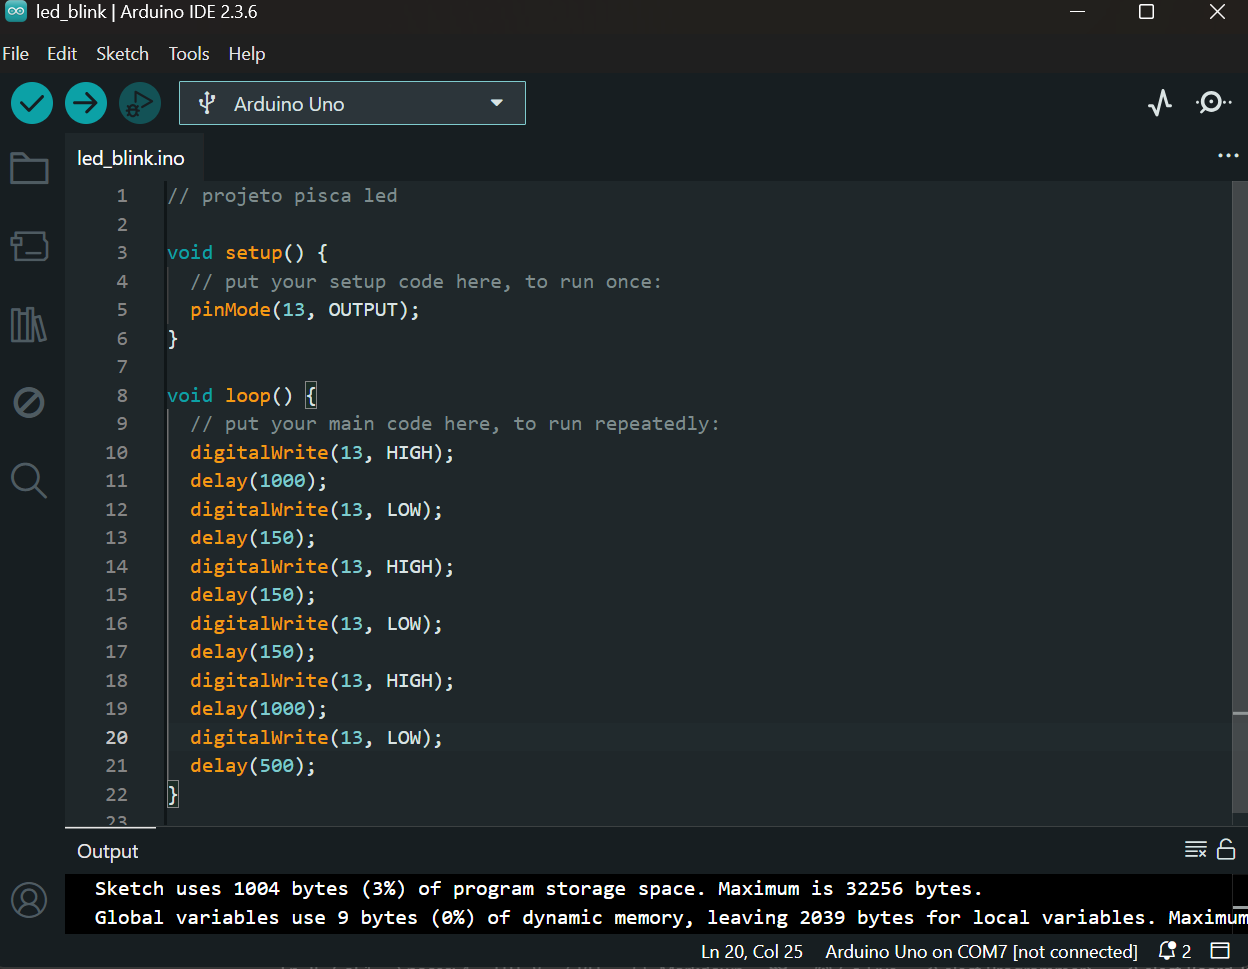
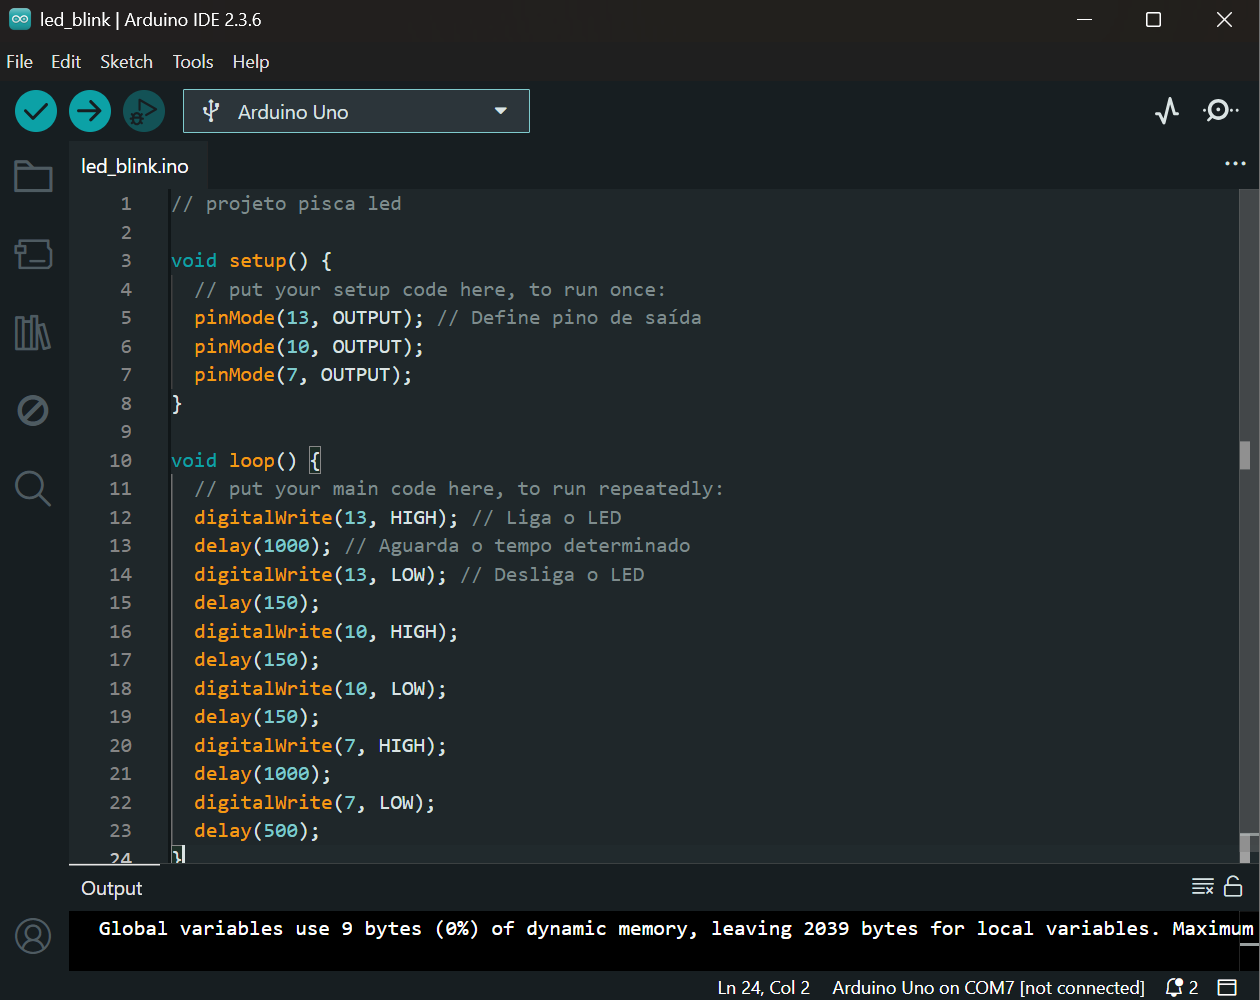
feat: update code

diff --git a/blink_led/README.md b/blink_led/README.md
@@ -6,8 +6,8 @@ Repositório criado para as atividades práticas de **pisca-pisca (Blink)** com 
 
 ## 🔹 Parte 1: Blink LED Interno
 
-Nesta parte, foi realizado o clássico **Blink** utilizando o **LED interno do Arduino (pino 13)**.  
-O programa faz o LED acender por um tempo, apagar e aguardar alguns segundos, repetindo esse ciclo continuamente.
+Nesta parte, foi realizado o clássico **Blink** utilizando o **LED interno do Arduino**.  
+O programa faz LEDs acenderem por um tempo, apagar e aguardar alguns segundos, repetindo esse ciclo continuamente.
 
 ### 🧠 Objetivo
 - Configurar o ambiente de desenvolvimento (Arduino IDE);
@@ -20,7 +20,9 @@ O programa faz o LED acender por um tempo, apagar e aguardar alguns segundos, re
 
 void setup() {
   // put your setup code here, to run once:
-  pinMode(13, OUTPUT); // Define pino 13 como saída
+  pinMode(13, OUTPUT); // Define pino de saída
+  pinMode(10, OUTPUT);
+  pinMode(7, OUTPUT);
 }
 
 void loop() {
@@ -29,13 +31,13 @@ void loop() {
   delay(1000); // Aguarda o tempo determinado
   digitalWrite(13, LOW); // Desliga o LED
   delay(150);
-  digitalWrite(13, HIGH);
+  digitalWrite(10, HIGH);
   delay(150);
-  digitalWrite(13, LOW);
+  digitalWrite(10, LOW);
   delay(150);
-  digitalWrite(13, HIGH);
+  digitalWrite(7, HIGH);
   delay(1000);
-  digitalWrite(13, LOW);
+  digitalWrite(7, LOW);
   delay(500);
 }
 ```
@@ -49,7 +51,7 @@ O arquivo com o código também pode ser encontrado em: [código](led_blink.ino)
 ![imagem led](assets/arduino_led.jpg)
 
 ##### 🎥 Vídeo demonstrando o funcionamento
-![gif](assets/gif.gif)
+![gif](assets/led.gif)
 
 
 
@@ -70,6 +72,9 @@ Simulação de um LED externo piscando utilizando o TinkerCad Circuits, com Ardu
 void setup()
 {
   pinMode(13, OUTPUT);
+  pinMode(10, OUTPUT);
+  pinMode(7, OUTPUT);
+
 }
 
 void loop()
@@ -78,13 +83,13 @@ void loop()
   delay(1000);
   digitalWrite(13, LOW);
   delay(150);
-  digitalWrite(13, HIGH);
+  digitalWrite(10, HIGH);
   delay(150);
-  digitalWrite(13, LOW);
+  digitalWrite(10, LOW);
   delay(150);
-  digitalWrite(13, HIGH);
+  digitalWrite(7, HIGH);
   delay(1000);
-  digitalWrite(13, LOW);
+  digitalWrite(7, LOW);
   delay(500);
 }
 ```
@@ -92,10 +97,10 @@ O código utilizado na parte 1 foi o mesmo utilizado na parte 2.
 O arquivo com o código pode ser encontrado em: [código](led_blink.ino).
 
 ##### 🔌 Foto do TinkerCad
-![imagem led](assets/thinkercad.png)
+![imagem led](assets/tinkercad.png)
 
 ##### 🎥 Vídeo demonstrando o funcionamento
-![gif](assets/thinker.gif)
+![gif](assets/tinker.gif)
 
 ### 🧩 Componentes usados
 
